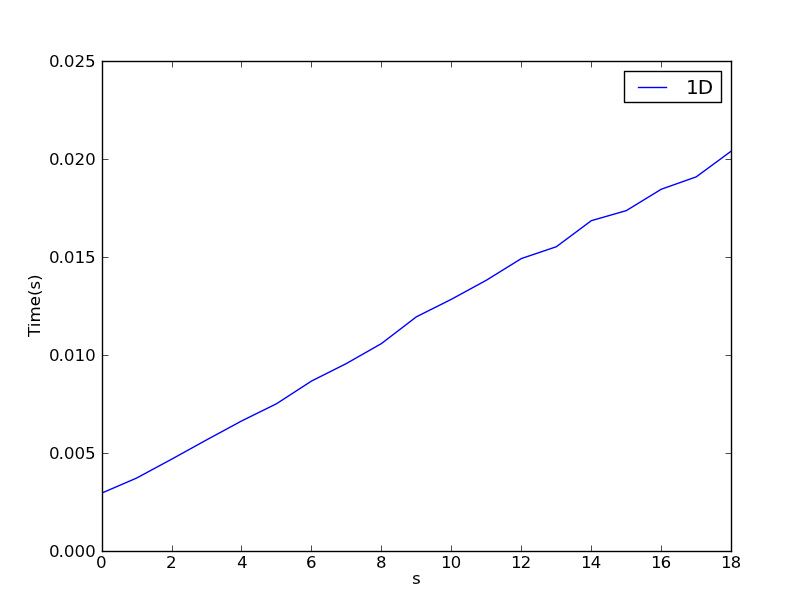
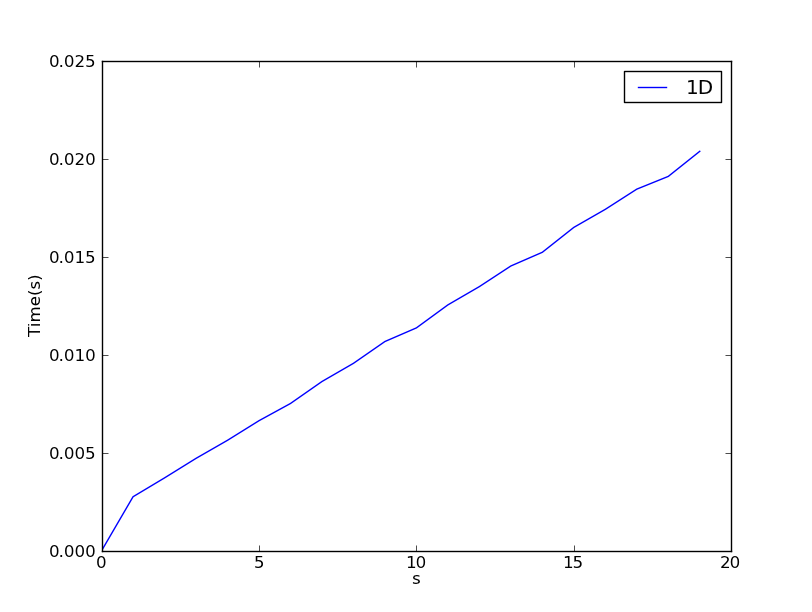
Redid creation of 1D timing.

diff --git a/Beeldbewerken/Exercise 4/time.py b/Beeldbewerken/Exercise 4/time.py
@@ -16,11 +16,12 @@ method = argv[1]
 Image = imread('cameraman.png')
 timings = zeros((20))
 timings[0] = 0
-temp = zeros((3))
+repeat = 3
+temp = zeros((repeat))
 
 if method == '2D':
     for i in xrange(1, 20):
-        for j in xrange(0,3):
+        for j in xrange(0,repeat):
             start = time()
             Gs = gauss(i)
             G = convolve(Image, Gs, mode='nearest')
@@ -29,14 +30,14 @@ if method == '2D':
         timings[i] = average(temp)
 elif method == '1D':
     for i in xrange(1, 20):
-        for j in xrange(0,3):
+        for j in xrange(0,repeat):
             start = time()
             Gsx = gauss1(i, f1)
             G2 = convolve1d(Image, Gsx, axis=0, mode='nearest')
             G2 = convolve1d(G2, Gsx, axis=1, mode='nearest')
             stop = time()
             temp[j] = stop - start
-        timings[i - 1] = average(temp)
+        timings[i] = average(temp)
 else:
     print 'Invalid method'
     exit(1)
